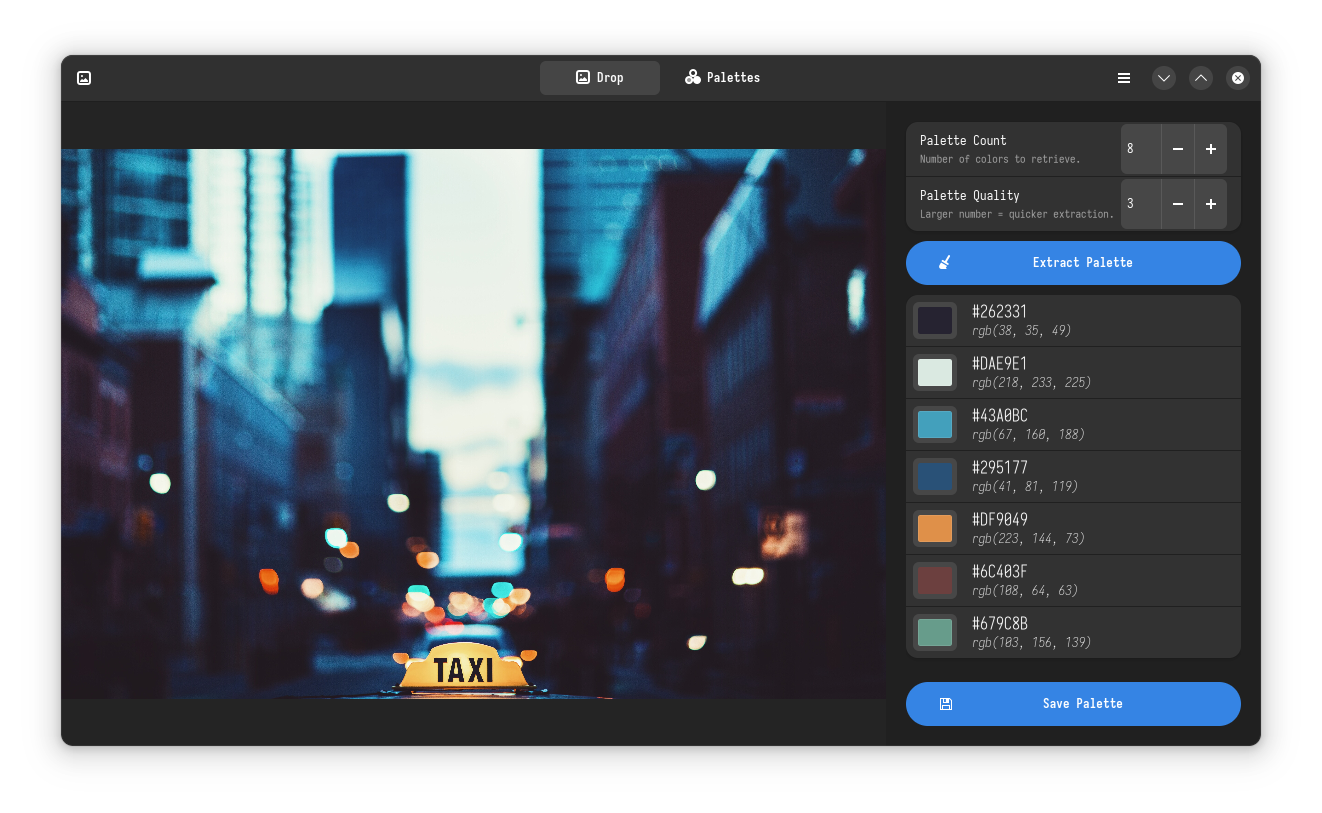
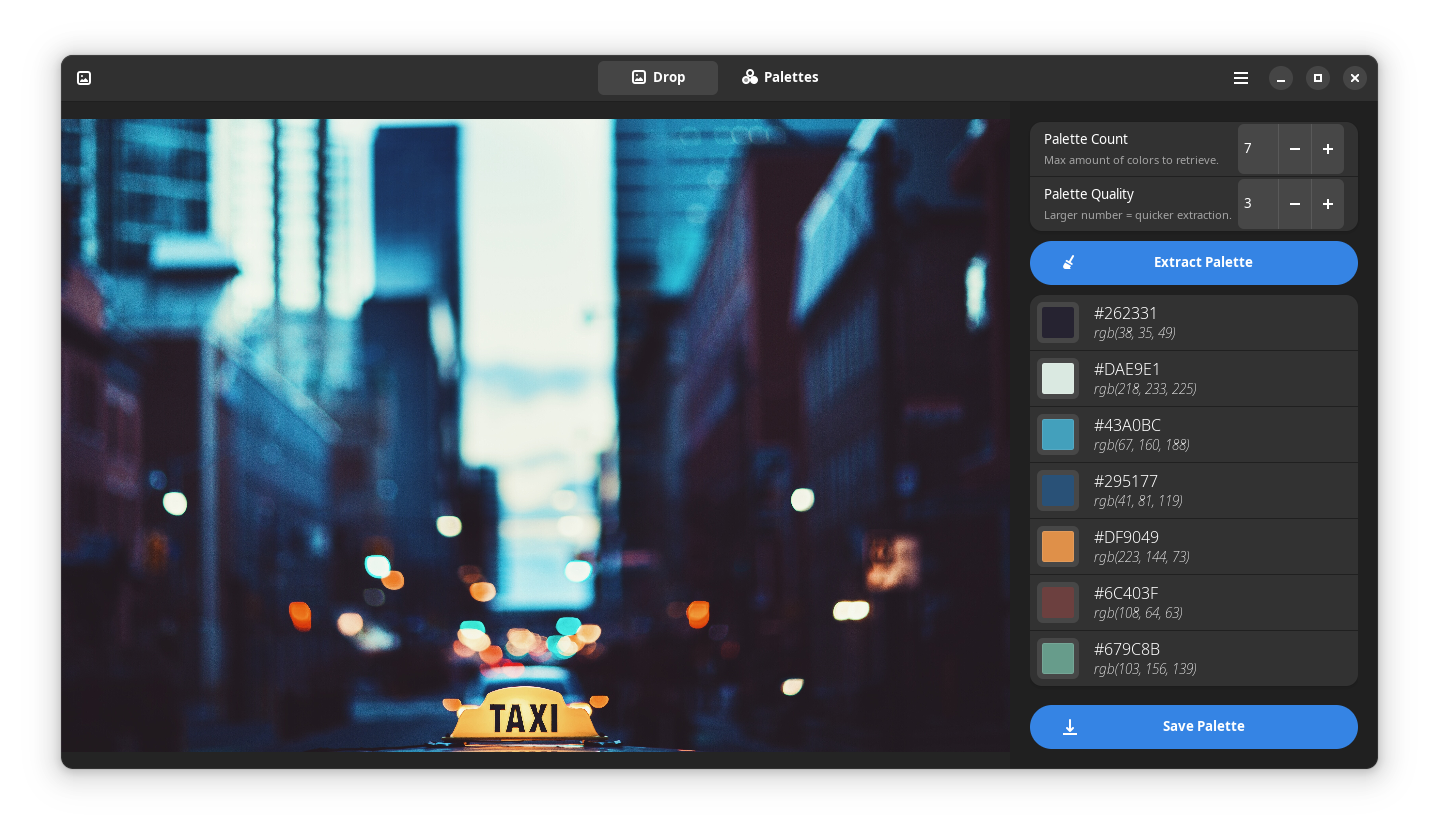
update README & screenshots

diff --git a/paleta/app.py b/paleta/app.py
@@ -39,7 +39,7 @@ class App(Adw.Application):
                                 application_name='Paleta',
                                 application_icon='io.github.nate_xyz.Paleta',
                                 developer_name='nate-xyz',
-                                version='0.1.0',
+                                version='0.1.1',
                                 developers=['nate-xyz'],
                                 copyright='© 2023 nate-xyz',
                                 license_type=Gtk.License.GPL_3_0_ONLY,

diff --git a/paleta/window.py b/paleta/window.py
@@ -78,8 +78,6 @@ class Window(Adw.ApplicationWindow):
         self.create_action(app, 'palette-add', self.palette_page.show_new_palette_dialog, ['<Primary>n','<Primary>a'])
         self.create_action(app, 'palette-page', self.go_to_palette_page, ['<Primary>p'])
 
-
-            
     def on_stack_switch(self, stack, child_name):
         if stack.get_visible_child_name() == 'palette-stack-page' and len(self.model.get_palettes()) != 0:
             self.edit_palette_button.show()

diff --git a/README.md b/README.md
@@ -1,6 +1,3 @@
-
-<!-- ![Application icon](./data/icons/hicolor/scalable/apps/io.github.nate_xyz.Paleta.svg) -->
-
 <img src="/data/icons/hicolor/scalable/apps/io.github.nate_xyz.Paleta.svg" align="left" height="157px" vspace="20px">
 
 Paleta
@@ -10,10 +7,44 @@ Find the dominant color palette from any image and manage palettes with Paleta.
 An intuitive tool for designers, artists, or anyone looking to streamline their color work.
 <br><br>
 
-Screenshots
-======
-
 ![Screenshot 1](./data/screenshots/paleta-1.png)
 ![Screenshot 2](./data/screenshots/paleta-2.png)
+
+Features
+--------------
+
+- Drag and drop images to load
+- Color extraction with color-thief
+- Save extracted palettes for later use
+- Modify saved palette name and colors
+- Add new palettes from scratch
+
+
+Flatpak
+--------------
+
+You can install stable builds of Paleta from [Flathub](https://flathub.org)
+by using this command:
+
+    flatpak remote-add --if-not-exists flathub https://flathub.org/repo/flathub.flatpakrepo
+    flatpak install flathub io.github.nate_xyz.Paleta
+
+<a href="https://flathub.org/apps/details/io.github.nate_xyz.Paleta"><img src="https://flathub.org/assets/badges/flathub-badge-en.png" width="200"/></a>
+
+
+Screenshots
+--------------
+
 ![Screenshot 3](./data/screenshots/paleta-3.png)
 ![Screenshot 4](./data/screenshots/paleta-4.png)
+![Screenshot 5](./data/screenshots/paleta-5.png)
+![Screenshot 6](./data/screenshots/paleta-6.png)
+![Screenshot 7](./data/screenshots/paleta-7.png)
+![Screenshot 8](./data/screenshots/paleta-8.png)
+![Screenshot 9](./data/screenshots/paleta-9.png)
+![Screenshot 10](./data/screenshots/paleta-10.png)
+![Screenshot 11](./data/screenshots/paleta-11.png)
+![Screenshot 12](./data/screenshots/paleta-12.png)
+![Screenshot 13](./data/screenshots/paleta-13.png)
+![Screenshot 14](./data/screenshots/paleta-14.png)
+![Screenshot 15](./data/screenshots/paleta-15.png)
